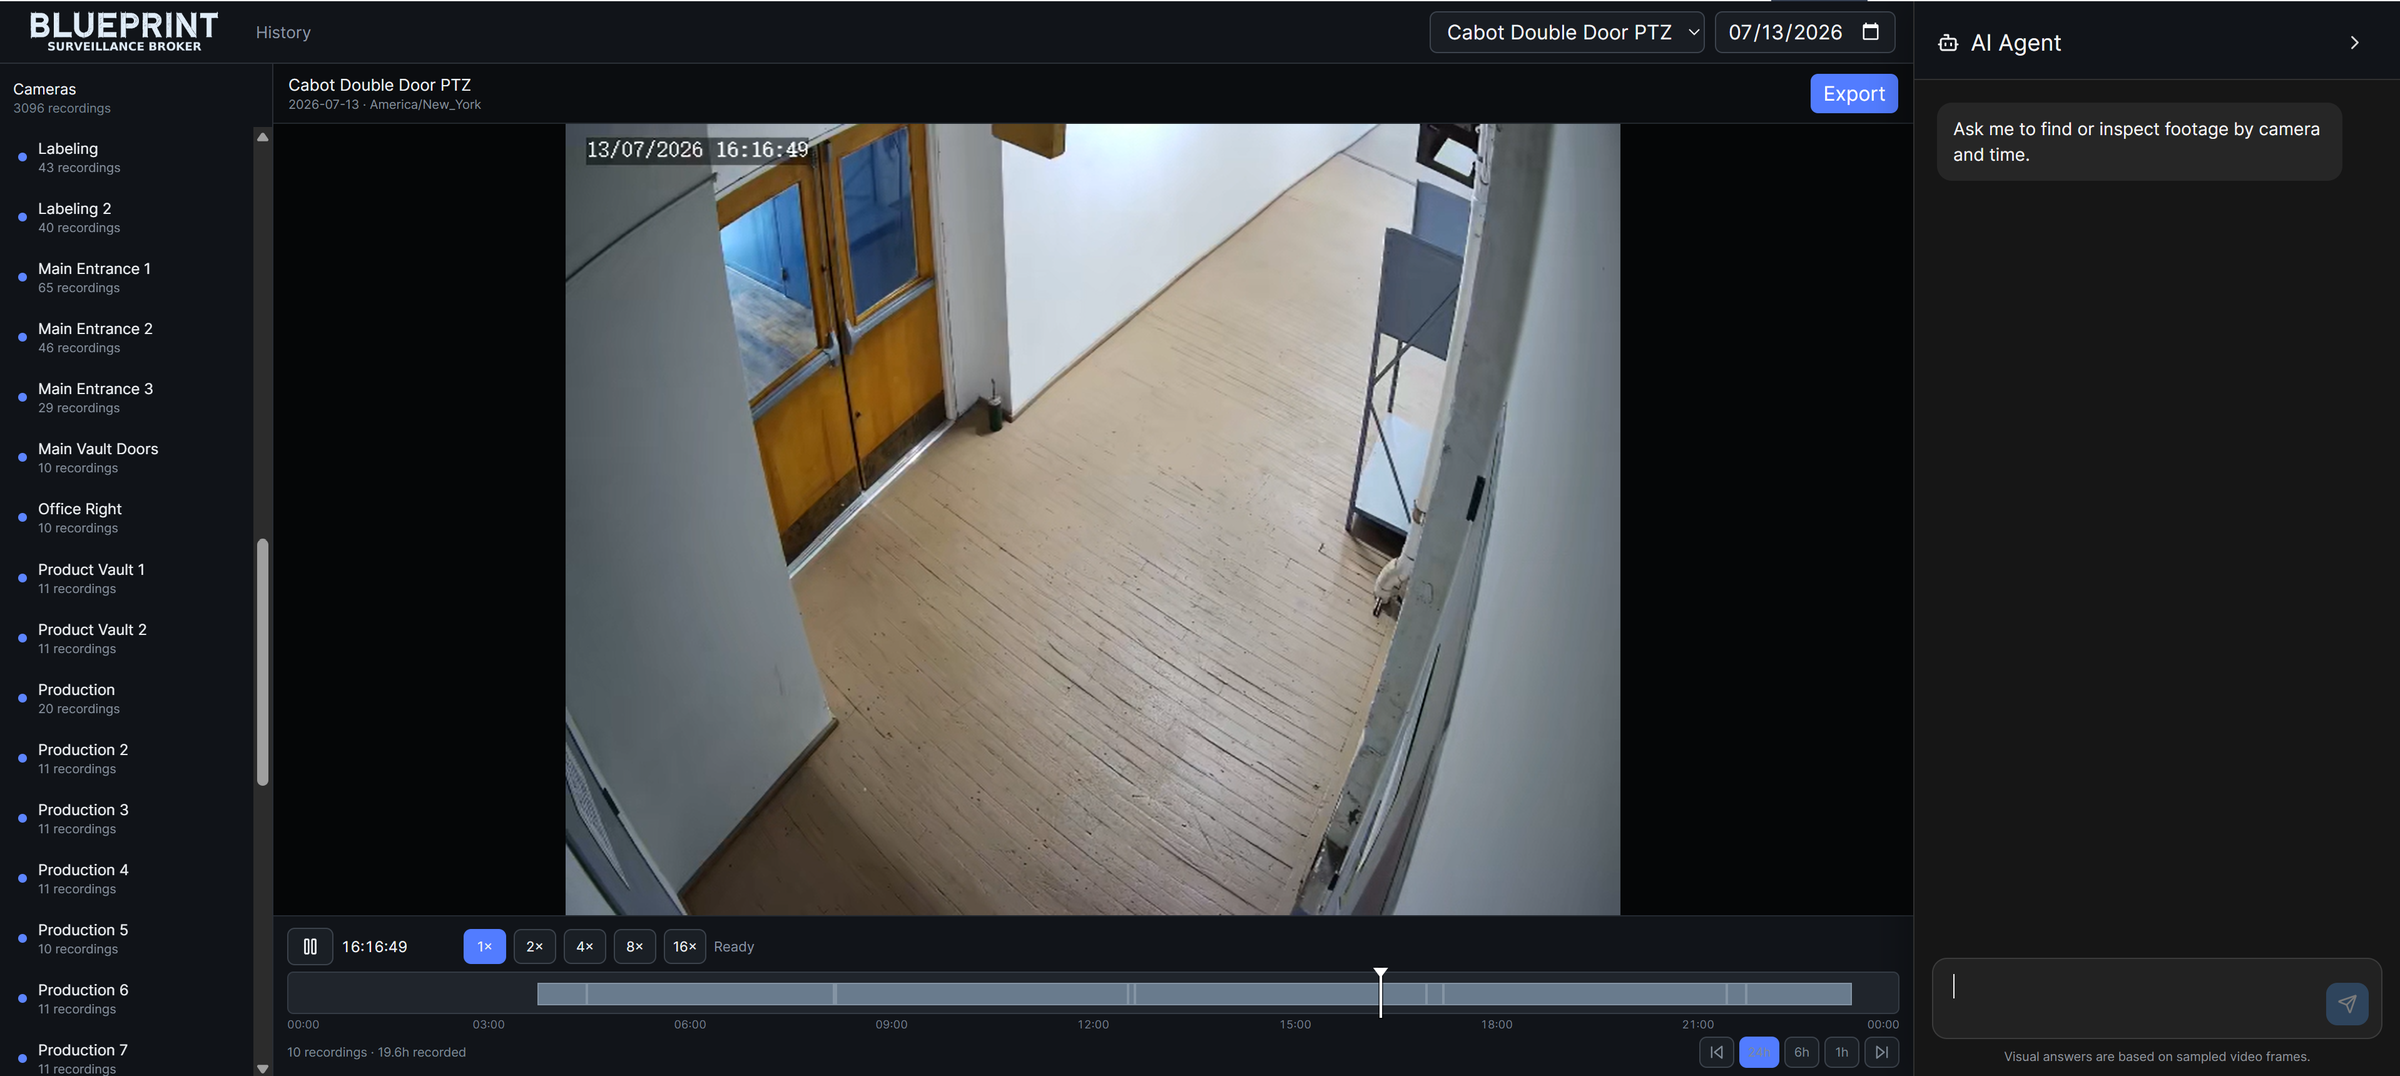
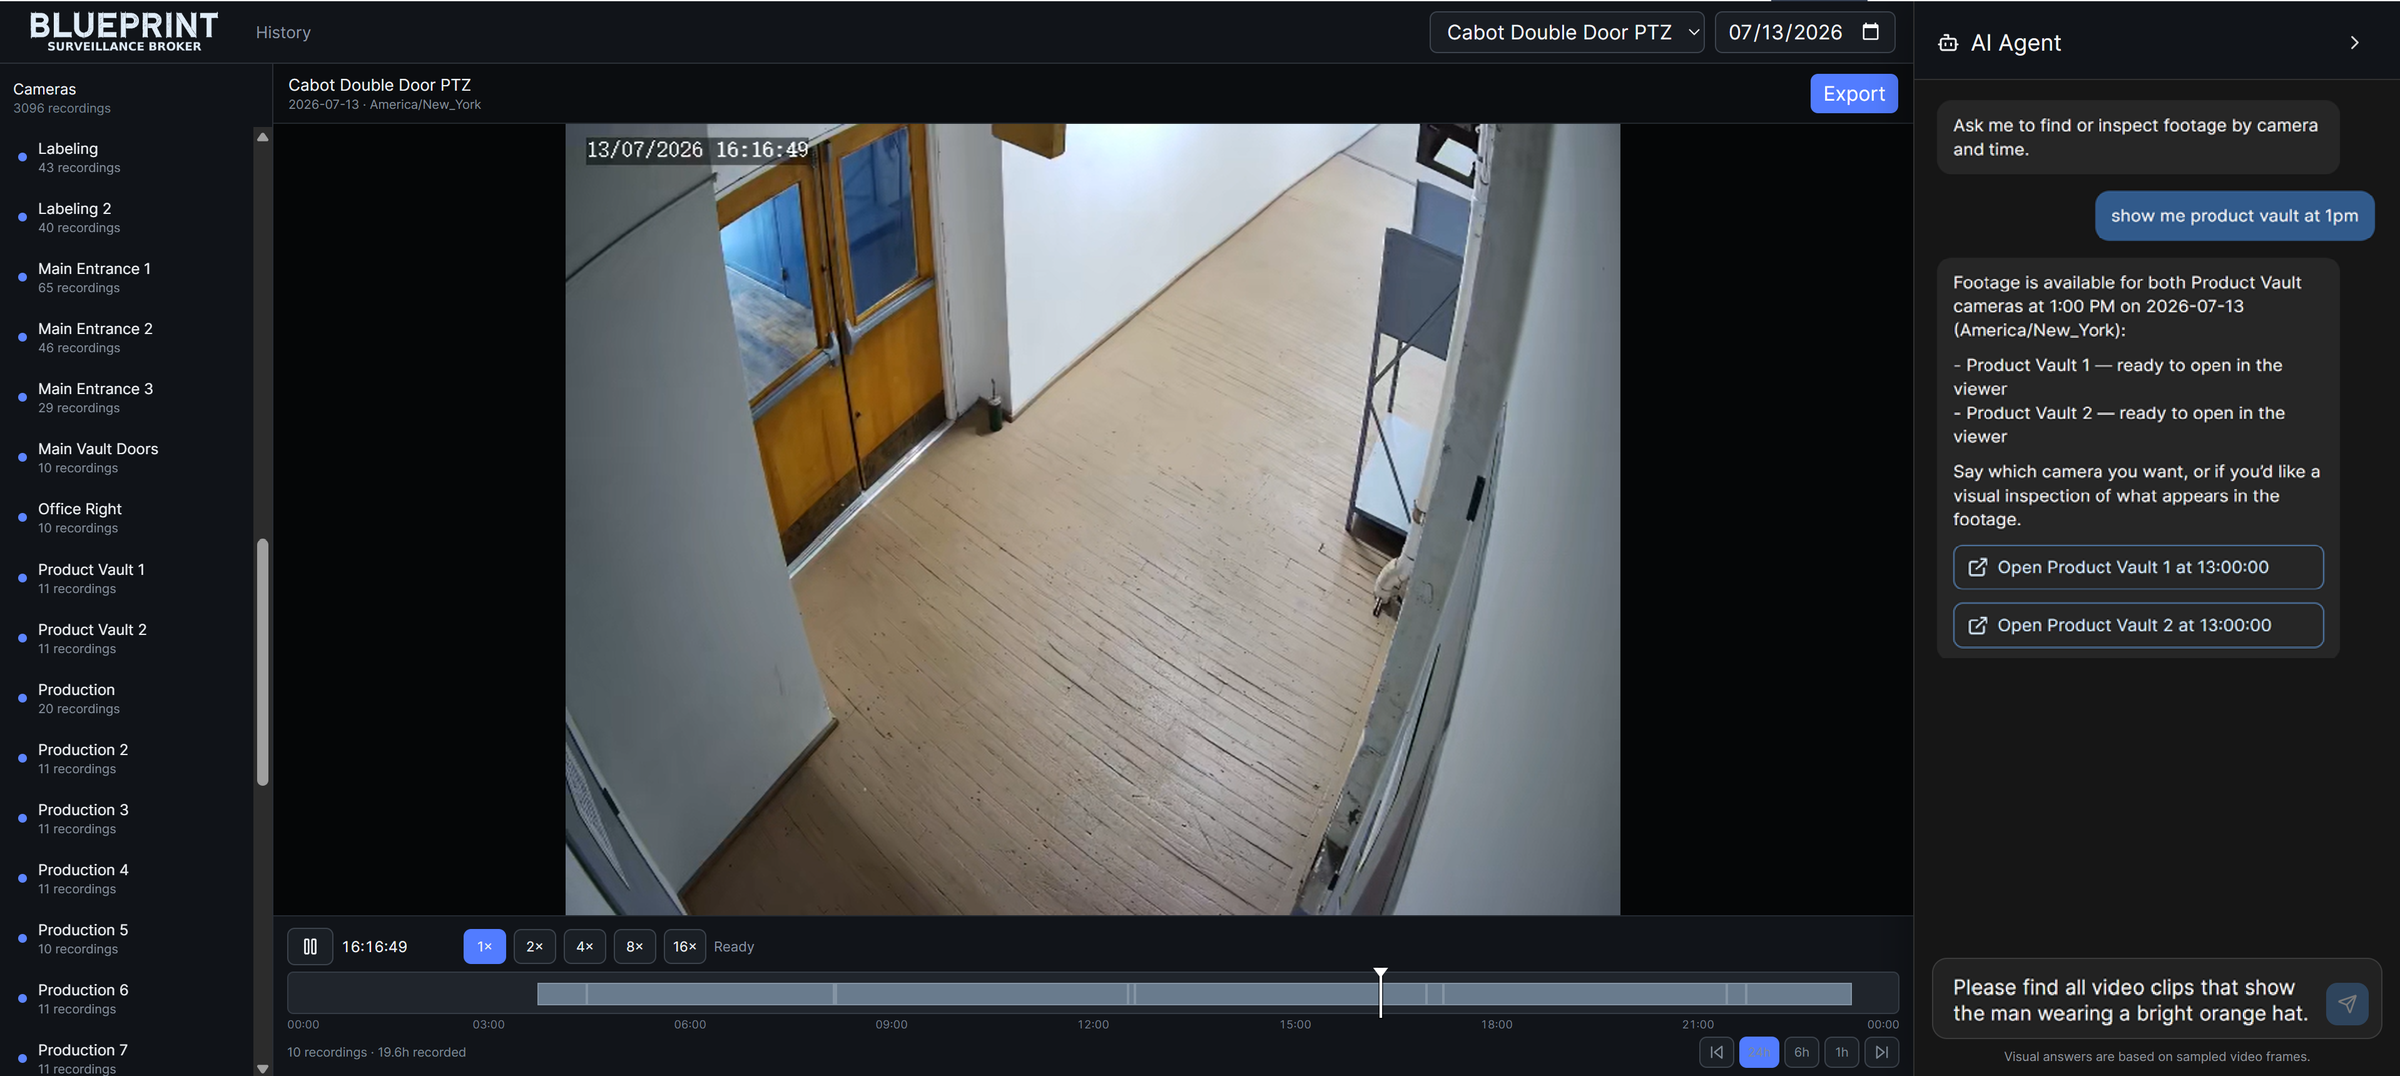
Surveillance Broker: drop privacy-by-design framing; name Frigate as the augmented NVR; feature local AI + person tracking; update screenshot to agent conversation
Claude-Session: https://claude.ai/code/session_012HV39kFZSuVujbQjdmbnDf

Changed region(s): [[0.8125, 0.1533, 1.0, 0.6134], [0.8125, 0.8894, 0.9688, 0.9507], [0.8125, 0.092, 0.9688, 0.1533]]

diff --git a/case-studies/surveillance-broker.html b/case-studies/surveillance-broker.html
@@ -131,19 +131,20 @@
       <img src="../assets/case-studies/surveillance-broker/viewer-agent.png" alt="Surveillance Broker web interface — a dark camera archive viewer showing a camera list with recording counts, a hallway recording with a burned-in wall-clock timestamp, a 24-hour timeline with recording segments and 1x to 16x playback speed, an export button, and an AI agent panel for finding footage by camera and time">
       <div class="cap">
         <span class="label">Blueprint Surveillance Broker &mdash; archive viewer &amp; agent</span>
-        <span>Wall-clock timeline · 1&ndash;16× playback · export · footage-finding agent</span>
+        <span>Frigate NVR, augmented · local-AI search · person tracking · one-step deep links</span>
       </div>
     </div>
   </div>
 
   <div class="cs-section">
     <h2>What it does</h2>
-    <p>Surveillance Broker sits on top of a proven NVR and adds the retrieval, memory, and conversational control that camera systems normally lack.</p>
+    <p>Surveillance Broker sits on top of Frigate and adds the local-AI retrieval, memory, and conversational control that camera systems normally lack.</p>
     <ul>
       <li><b>Browse by camera and day on a true wall-clock timeline.</b> Consecutive recordings play as one continuous stream while real gaps stay visible &mdash; you always know what was and was not recorded.</li>
       <li><b>Review fast.</b> High-speed playback from 1× to 16×, accurate seeking, and bounded, browser-compatible exports for the exact interval you need.</li>
       <li><b>Self-describing evidence.</b> Every frame carries a burned-in camera name and authoritative date and time, so an exported clip stands on its own.</li>
-      <li><b>Just ask.</b> "Show me the Vault camera from 3:00 to 3:15" resolves through deterministic camera-and-time lookup &mdash; no model guesswork. Harder questions search across what was actually seen in the footage.</li>
+      <li><b>Just ask.</b> "Show me the Product Vault at 1:00 PM" resolves straight to openable clips. Harder questions &mdash; "find all clips showing the man in a bright orange hat" &mdash; search across what the local AI actually saw in the footage.</li>
+      <li><b>Find a person, not just a time.</b> Local vision models track people through a space and across cameras, so you can follow an individual through the building instead of scrubbing each feed by hand.</li>
       <li><b>One step to the moment.</b> The agent's answers are real recording references, so a result opens directly in the viewer at the right camera and time, ready to export.</li>
     </ul>
   </div>
@@ -152,26 +153,15 @@
     <h2>How it is built</h2>
     <p>Surveillance Broker is two cooperating systems &mdash; a local system at the site and a cloud system for centralized access &mdash; sharing one domain implementation across every interface.</p>
 
-    <h3>Local: capture, normalize, understand.</h3>
-    <p>A proven open-source NVR handles live cameras, recording, and review; Surveillance Broker builds the intelligence around it rather than reinventing it. Recordings are <b>decoded once</b> into a clean, standardized archive and, in the same pass, sampled for analysis. Lightweight detection runs first; only when something is actually happening do local vision-language models describe the people, activity, objects, and visible text in the scene. Those observations become searchable records, embeddings, and a knowledge graph &mdash; all kept alongside the camera, time, and source frames they came from.</p>
+    <h3>Local: Frigate, augmented.</h3>
+    <p>We install <b>Frigate</b> &mdash; the widely used, open-source, industry-standard NVR &mdash; to handle live cameras, recording, review, and timeline. Surveillance Broker augments Frigate rather than reinventing it. Recordings are <b>decoded once</b> into a clean, standardized archive and, in the same pass, sampled for analysis.</p>
+    <p>Everything runs on <b>locally installed AI</b>. Lightweight detection runs first; then local vision-language models describe the people, activity, objects, and visible text in each scene. <b>Person tracking is central</b> &mdash; the models follow individuals through a space and across cameras, so you can search for who appears and how they move through the building, not just when a camera was recording. Those observations become searchable records, embeddings, and a knowledge graph, all kept alongside the camera, time, and source frames they came from.</p>
 
     <h3>Cloud: browse, search, ask.</h3>
     <p>The cloud system receives authenticated archive uploads and catalogs them immutably. It serves the timeline, playback, and export experience, and runs <b>hybrid search</b> &mdash; relational, full-text, vector, and knowledge-graph retrieval combined and reranked &mdash; behind the conversational agent. Every answer carries stable references that become viewer deep links and export boundaries.</p>
 
     <h3>Built to be trusted with real work.</h3>
     <p>Long-running jobs &mdash; import, processing, enrichment, upload, reconciliation &mdash; use durable checkpoints and idempotent operations, so nothing is silently lost and a repeated upload is always safe. A single source of truth holds the authoritative catalog; the knowledge graph is a rebuildable projection on top of it. And there is <b>one implementation behind many front doors</b>: the same operations serve the web UI, scheduled jobs, and other authorized agents over a common tool interface.</p>
-  </div>
-
-  <div class="cs-section">
-    <h2>Privacy and safety by design</h2>
-    <p>A system that understands surveillance footage has to be built carefully. These are architecture decisions, not afterthoughts.</p>
-    <ul>
-      <li><b>Video only.</b> No audio is acquired, archived, analyzed, exported, or transmitted &mdash; ever.</li>
-      <li><b>Closed by default.</b> Only authenticated gateways are reachable. Databases, models, and services stay on a private network with no inbound access.</li>
-      <li><b>Deterministic stays deterministic.</b> Finding a camera and time, playing it back, and choosing an export never depend on a model's guess.</li>
-      <li><b>Identity is a hypothesis until it is not.</b> A person's continuity within a single day is evidence-based; links across days remain explicit, reviewable hypotheses. The system never quietly promotes a model's guess into a confirmed identity.</li>
-      <li><b>Bounded agents, separate admin.</b> Agents get stable identifiers and specific, audited operations &mdash; not arbitrary filesystem, database, or shell access. Raw file inspection and repair stay behind a distinct administrative path.</li>
-    </ul>
   </div>
 
   <div class="cs-section">

diff --git a/index.html b/index.html
@@ -260,7 +260,7 @@
       </div>
       <div class="copy">
         <h3>Surveillance Broker</h3>
-        <p>A camera archive you can talk to. Built for the Riverside Mill camera system and productized — browse hundreds of cameras on a wall-clock timeline, search by what actually happened in the footage, and ask an agent to open the exact camera and time. Privacy-first and video-only, with a local vision pipeline and hybrid cloud search.</p>
+        <p>A camera archive you can talk to. Built for the Riverside Mill camera system and productized — browse hundreds of cameras on a wall-clock timeline, search by what actually happened in the footage, and ask an agent to open the exact camera and time. Built on Frigate, the industry-standard open-source NVR, and augmented with locally installed AI — including person tracking — plus hybrid search across the whole archive.</p>
         <a class="link" href="case-studies/surveillance-broker.html">Read more →</a>
       </div>
     </div>
